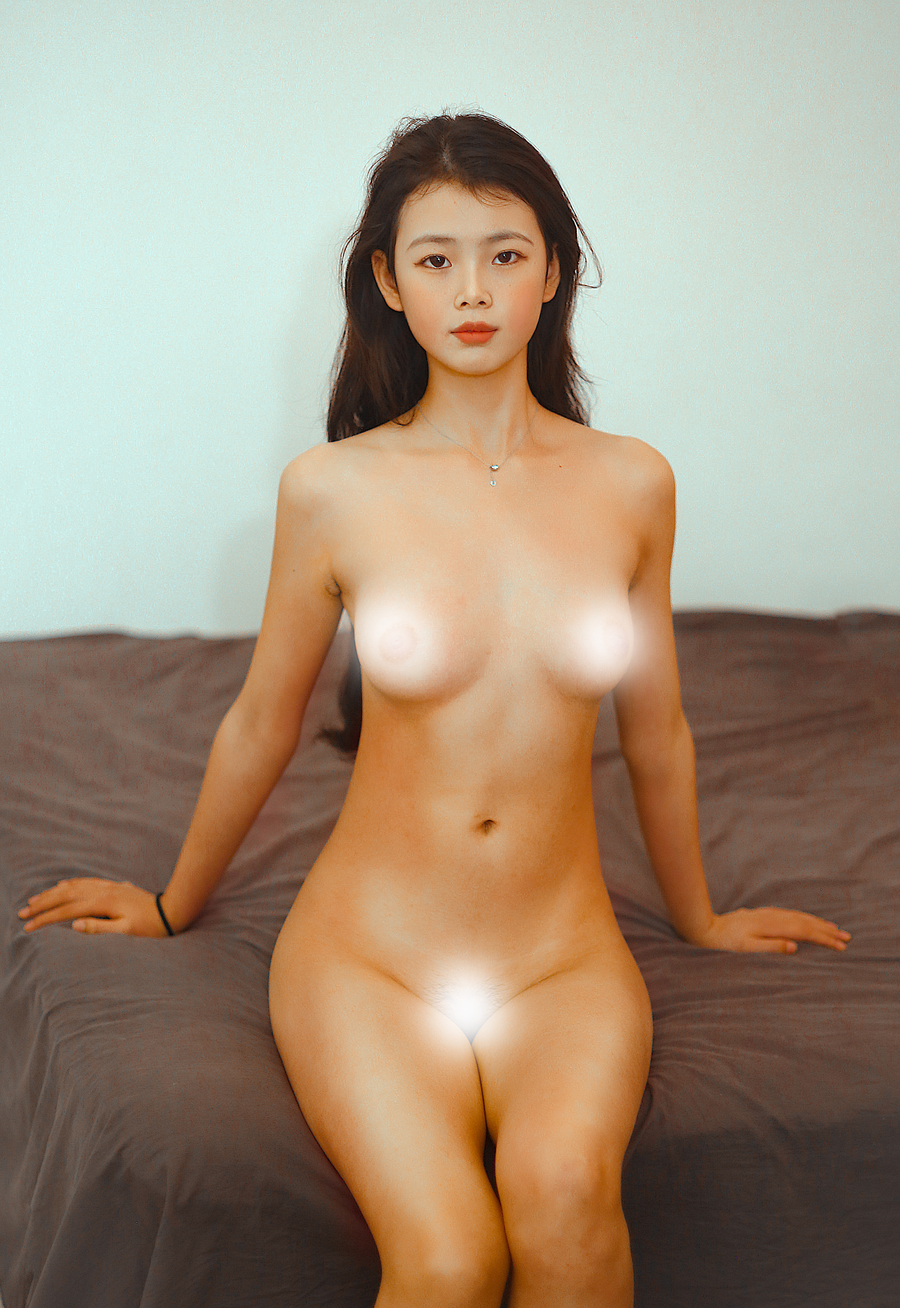
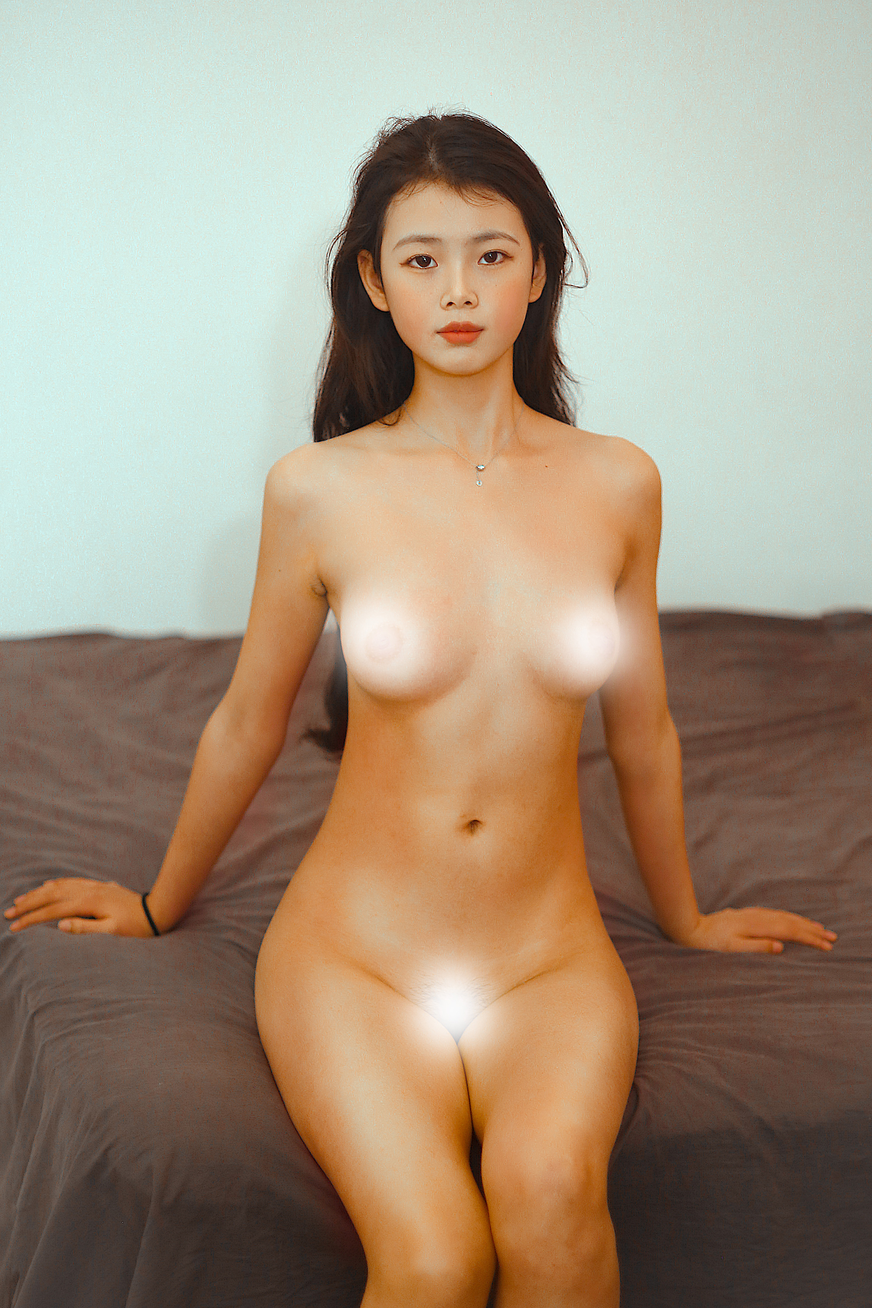
Site updated: 2022-01-26 22:15:31

diff --git a/archives/2021/10/index.html b/archives/2021/10/index.html
@@ -130,11 +130,23 @@
 </li>
                 
                     <li>
-    <a href="/2021/12/11/【模特】杨文/">【模特】杨文</a>
+    <a href="/2022/01/21/【模特】十七/">【模特】十七</a>
+</li>
+                
+                    <li>
+    <a href="/2022/01/18/【模特】朵朵/">【模特】朵朵</a>
 </li>
                 
                     <li>
     <a href="/2021/10/02/【模特】梦梦/">【模特】梦梦</a>
+</li>
+                
+                    <li>
+    <a href="/2021/12/11/【模特】杨文/">【模特】杨文</a>
+</li>
+                
+                    <li>
+    <a href="/2022/01/18/【模特】沉默/">【模特】沉默</a>
 </li>
                 
                     <li>
@@ -147,18 +159,6 @@
                 
                     <li>
     <a href="/2021/10/04/【模特】雯雯/">【模特】雯雯</a>
-</li>
-                
-                    <li>
-    <a href="/2022/01/18/【模特】朵朵/">【模特】朵朵</a>
-</li>
-                
-                    <li>
-    <a href="/2022/01/18/【模特】沉默/">【模特】沉默</a>
-</li>
-                
-                    <li>
-    <a href="/2022/01/21/【模特】十七/">【模特】十七</a>
 </li>
                 
             </ul>

diff --git a/archives/2021/11/index.html b/archives/2021/11/index.html
@@ -130,11 +130,23 @@
 </li>
                 
                     <li>
-    <a href="/2021/12/11/【模特】杨文/">【模特】杨文</a>
+    <a href="/2022/01/21/【模特】十七/">【模特】十七</a>
+</li>
+                
+                    <li>
+    <a href="/2022/01/18/【模特】朵朵/">【模特】朵朵</a>
 </li>
                 
                     <li>
     <a href="/2021/10/02/【模特】梦梦/">【模特】梦梦</a>
+</li>
+                
+                    <li>
+    <a href="/2021/12/11/【模特】杨文/">【模特】杨文</a>
+</li>
+                
+                    <li>
+    <a href="/2022/01/18/【模特】沉默/">【模特】沉默</a>
 </li>
                 
                     <li>
@@ -147,18 +159,6 @@
                 
                     <li>
     <a href="/2021/10/04/【模特】雯雯/">【模特】雯雯</a>
-</li>
-                
-                    <li>
-    <a href="/2022/01/18/【模特】朵朵/">【模特】朵朵</a>
-</li>
-                
-                    <li>
-    <a href="/2022/01/18/【模特】沉默/">【模特】沉默</a>
-</li>
-                
-                    <li>
-    <a href="/2022/01/21/【模特】十七/">【模特】十七</a>
 </li>
                 
             </ul>

diff --git a/archives/2021/12/index.html b/archives/2021/12/index.html
@@ -130,11 +130,23 @@
 </li>
                 
                     <li>
-    <a href="/2021/12/11/【模特】杨文/">【模特】杨文</a>
+    <a href="/2022/01/21/【模特】十七/">【模特】十七</a>
+</li>
+                
+                    <li>
+    <a href="/2022/01/18/【模特】朵朵/">【模特】朵朵</a>
 </li>
                 
                     <li>
     <a href="/2021/10/02/【模特】梦梦/">【模特】梦梦</a>
+</li>
+                
+                    <li>
+    <a href="/2021/12/11/【模特】杨文/">【模特】杨文</a>
+</li>
+                
+                    <li>
+    <a href="/2022/01/18/【模特】沉默/">【模特】沉默</a>
 </li>
                 
                     <li>
@@ -147,18 +159,6 @@
                 
                     <li>
     <a href="/2021/10/04/【模特】雯雯/">【模特】雯雯</a>
-</li>
-                
-                    <li>
-    <a href="/2022/01/18/【模特】朵朵/">【模特】朵朵</a>
-</li>
-                
-                    <li>
-    <a href="/2022/01/18/【模特】沉默/">【模特】沉默</a>
-</li>
-                
-                    <li>
-    <a href="/2022/01/21/【模特】十七/">【模特】十七</a>
 </li>
                 
             </ul>

diff --git a/archives/2021/index.html b/archives/2021/index.html
@@ -130,11 +130,23 @@
 </li>
                 
                     <li>
-    <a href="/2021/12/11/【模特】杨文/">【模特】杨文</a>
+    <a href="/2022/01/21/【模特】十七/">【模特】十七</a>
+</li>
+                
+                    <li>
+    <a href="/2022/01/18/【模特】朵朵/">【模特】朵朵</a>
 </li>
                 
                     <li>
     <a href="/2021/10/02/【模特】梦梦/">【模特】梦梦</a>
+</li>
+                
+                    <li>
+    <a href="/2021/12/11/【模特】杨文/">【模特】杨文</a>
+</li>
+                
+                    <li>
+    <a href="/2022/01/18/【模特】沉默/">【模特】沉默</a>
 </li>
                 
                     <li>
@@ -147,18 +159,6 @@
                 
                     <li>
     <a href="/2021/10/04/【模特】雯雯/">【模特】雯雯</a>
-</li>
-                
-                    <li>
-    <a href="/2022/01/18/【模特】朵朵/">【模特】朵朵</a>
-</li>
-                
-                    <li>
-    <a href="/2022/01/18/【模特】沉默/">【模特】沉默</a>
-</li>
-                
-                    <li>
-    <a href="/2022/01/21/【模特】十七/">【模特】十七</a>
 </li>
                 
             </ul>

diff --git a/archives/2022/01/index.html b/archives/2022/01/index.html
@@ -130,11 +130,23 @@
 </li>
                 
                     <li>
-    <a href="/2021/12/11/【模特】杨文/">【模特】杨文</a>
+    <a href="/2022/01/21/【模特】十七/">【模特】十七</a>
+</li>
+                
+                    <li>
+    <a href="/2022/01/18/【模特】朵朵/">【模特】朵朵</a>
 </li>
                 
                     <li>
     <a href="/2021/10/02/【模特】梦梦/">【模特】梦梦</a>
+</li>
+                
+                    <li>
+    <a href="/2021/12/11/【模特】杨文/">【模特】杨文</a>
+</li>
+                
+                    <li>
+    <a href="/2022/01/18/【模特】沉默/">【模特】沉默</a>
 </li>
                 
                     <li>
@@ -147,18 +159,6 @@
                 
                     <li>
     <a href="/2021/10/04/【模特】雯雯/">【模特】雯雯</a>
-</li>
-                
-                    <li>
-    <a href="/2022/01/18/【模特】朵朵/">【模特】朵朵</a>
-</li>
-                
-                    <li>
-    <a href="/2022/01/18/【模特】沉默/">【模特】沉默</a>
-</li>
-                
-                    <li>
-    <a href="/2022/01/21/【模特】十七/">【模特】十七</a>
 </li>
                 
             </ul>

diff --git a/archives/2022/index.html b/archives/2022/index.html
@@ -130,11 +130,23 @@
 </li>
                 
                     <li>
-    <a href="/2021/12/11/【模特】杨文/">【模特】杨文</a>
+    <a href="/2022/01/21/【模特】十七/">【模特】十七</a>
+</li>
+                
+                    <li>
+    <a href="/2022/01/18/【模特】朵朵/">【模特】朵朵</a>
 </li>
                 
                     <li>
     <a href="/2021/10/02/【模特】梦梦/">【模特】梦梦</a>
+</li>
+                
+                    <li>
+    <a href="/2021/12/11/【模特】杨文/">【模特】杨文</a>
+</li>
+                
+                    <li>
+    <a href="/2022/01/18/【模特】沉默/">【模特】沉默</a>
 </li>
                 
                     <li>
@@ -147,18 +159,6 @@
                 
                     <li>
     <a href="/2021/10/04/【模特】雯雯/">【模特】雯雯</a>
-</li>
-                
-                    <li>
-    <a href="/2022/01/18/【模特】朵朵/">【模特】朵朵</a>
-</li>
-                
-                    <li>
-    <a href="/2022/01/18/【模特】沉默/">【模特】沉默</a>
-</li>
-                
-                    <li>
-    <a href="/2022/01/21/【模特】十七/">【模特】十七</a>
 </li>
                 
             </ul>

diff --git a/archives/index.html b/archives/index.html
@@ -130,11 +130,23 @@
 </li>
                 
                     <li>
-    <a href="/2021/12/11/【模特】杨文/">【模特】杨文</a>
+    <a href="/2022/01/21/【模特】十七/">【模特】十七</a>
+</li>
+                
+                    <li>
+    <a href="/2022/01/18/【模特】朵朵/">【模特】朵朵</a>
 </li>
                 
                     <li>
     <a href="/2021/10/02/【模特】梦梦/">【模特】梦梦</a>
+</li>
+                
+                    <li>
+    <a href="/2021/12/11/【模特】杨文/">【模特】杨文</a>
+</li>
+                
+                    <li>
+    <a href="/2022/01/18/【模特】沉默/">【模特】沉默</a>
 </li>
                 
                     <li>
@@ -147,18 +159,6 @@
                 
                     <li>
     <a href="/2021/10/04/【模特】雯雯/">【模特】雯雯</a>
-</li>
-                
-                    <li>
-    <a href="/2022/01/18/【模特】朵朵/">【模特】朵朵</a>
-</li>
-                
-                    <li>
-    <a href="/2022/01/18/【模特】沉默/">【模特】沉默</a>
-</li>
-                
-                    <li>
-    <a href="/2022/01/21/【模特】十七/">【模特】十七</a>
 </li>
                 
             </ul>

diff --git a/index.html b/index.html
@@ -128,7 +128,7 @@
     
         <div class="work">
     <a href="/2022/01/18/【模特】沉默/">
-        <img src="/assets/chenmo/1.jpg" class="media" alt=""/>
+        <img src="/assets/chenmo/1-2.jpg" class="media" alt=""/>
         <div class="caption">
             <div class="work_title">
                 <h1>【模特】沉默</h1>
